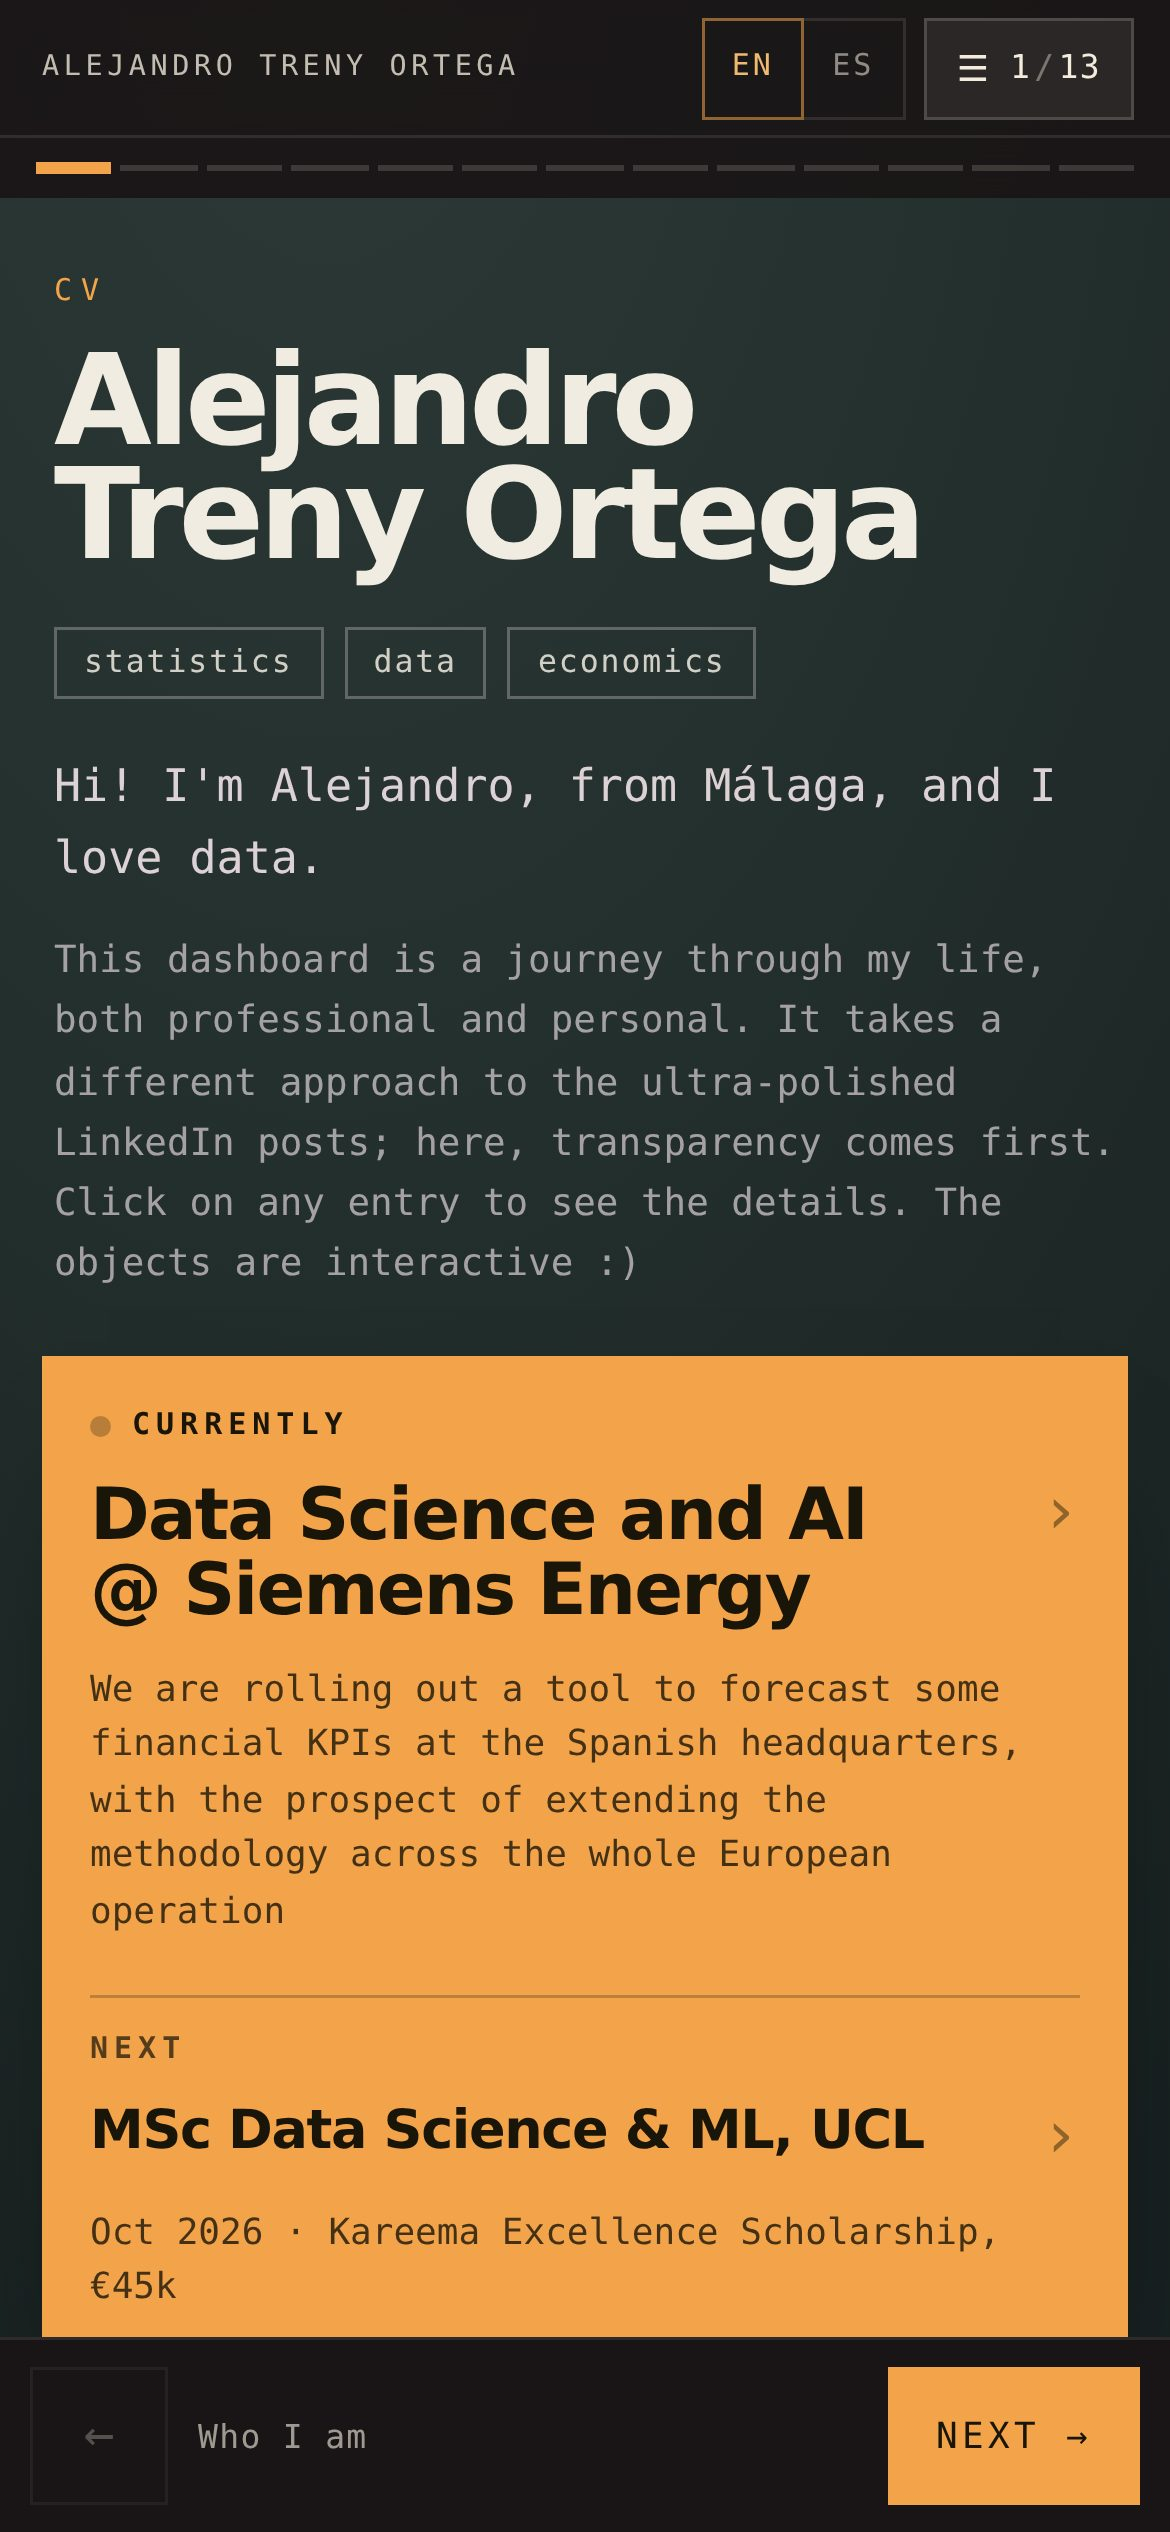
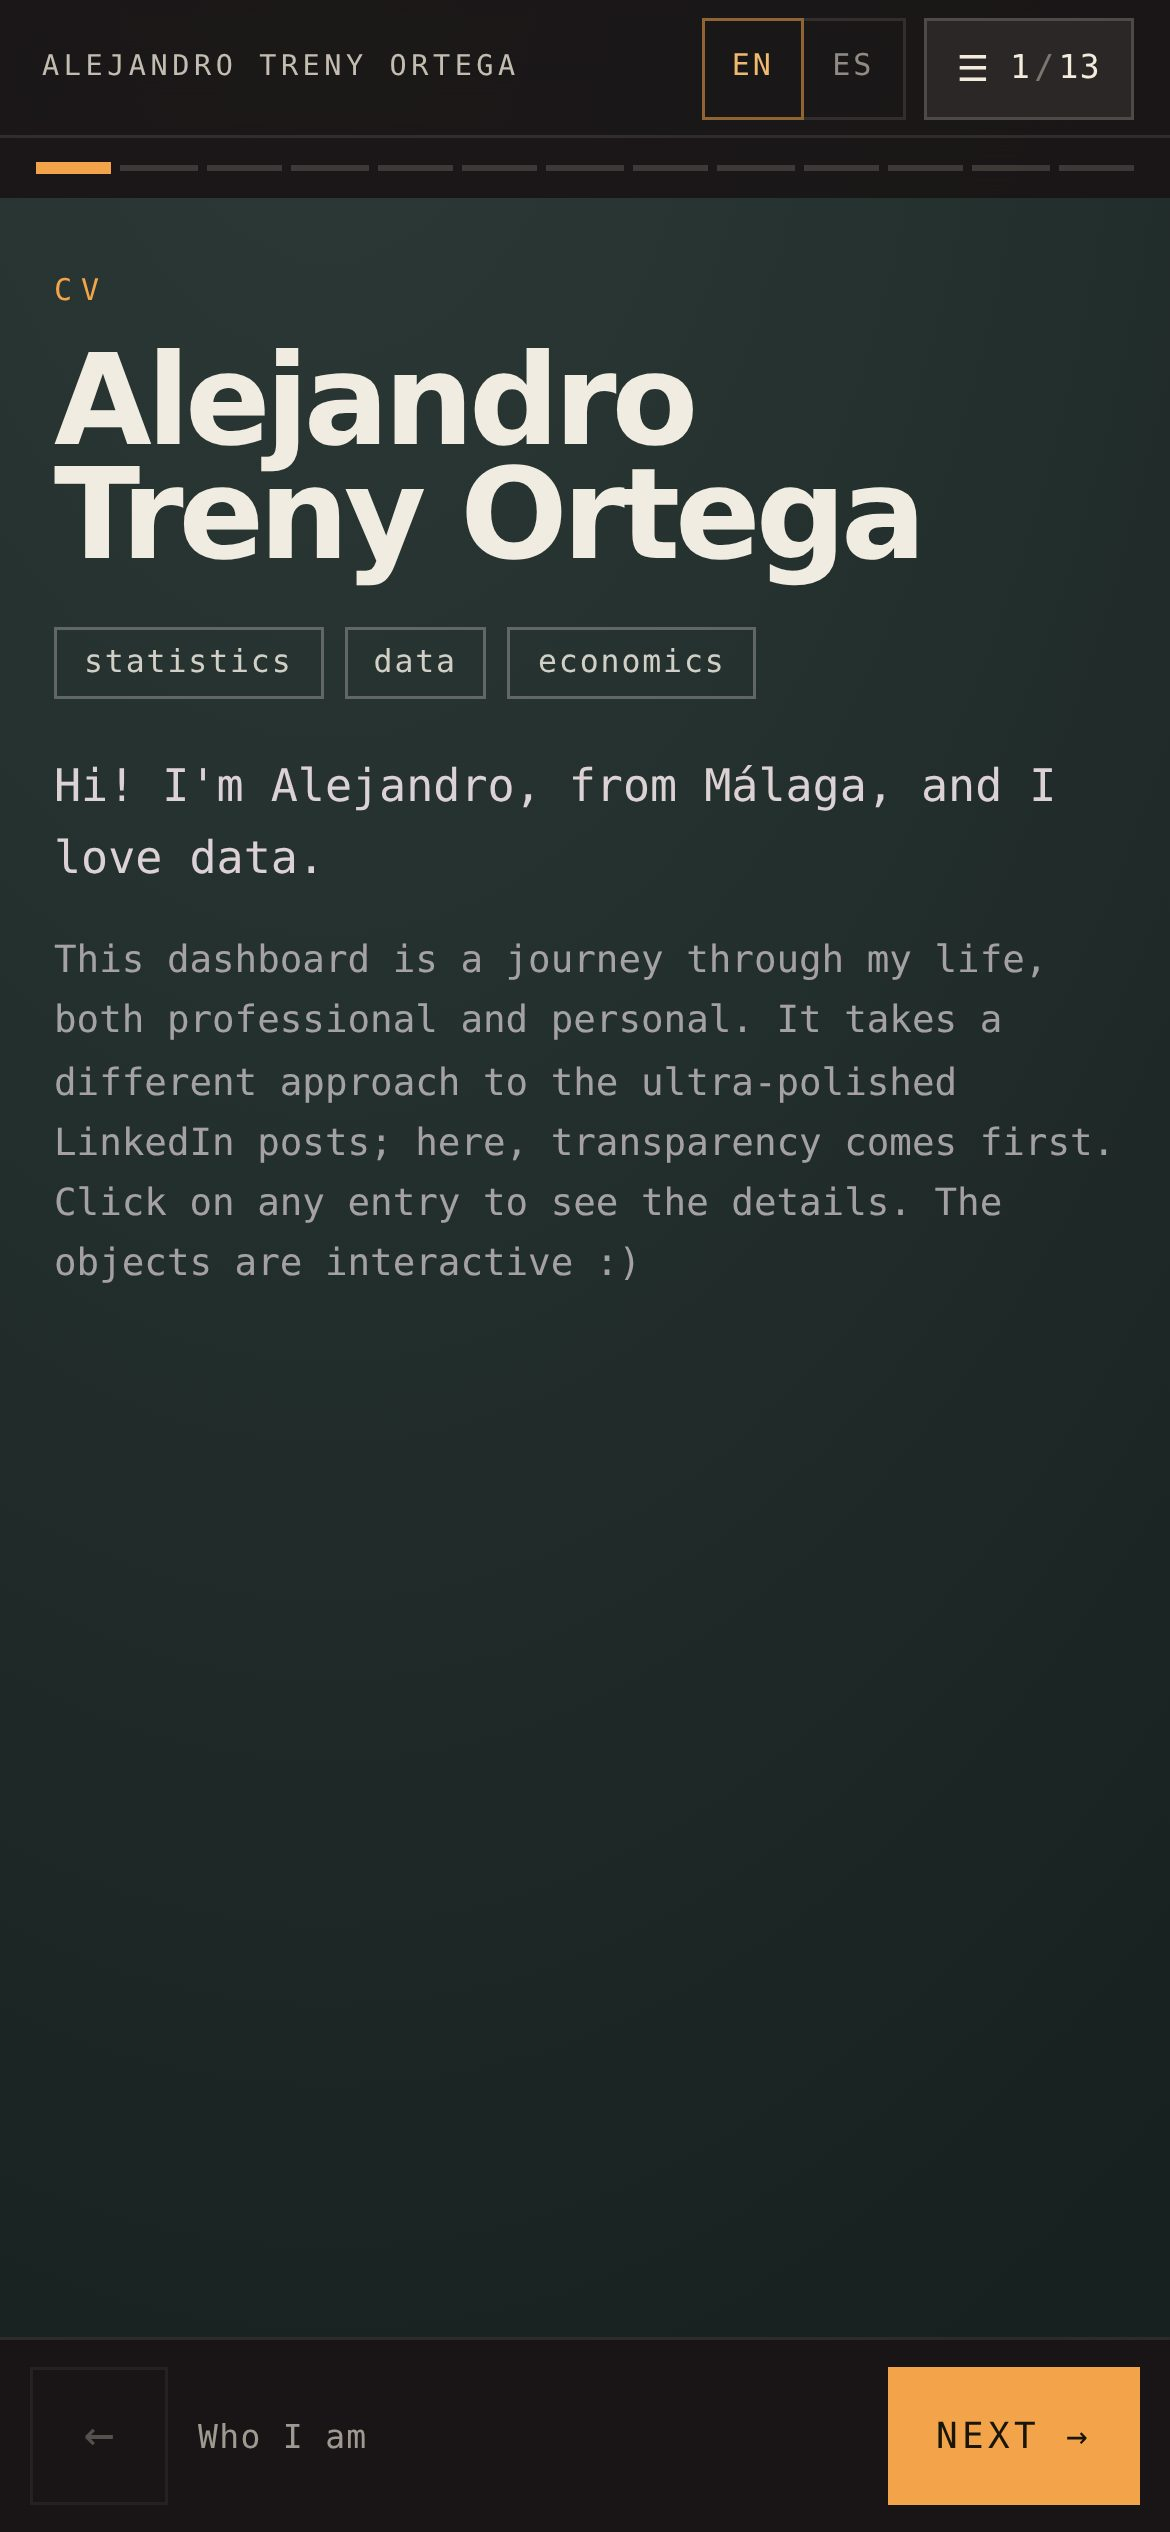
Leave the "currently" card off the walk too
It is real content, unlike the scraps and the stamps, but it says what the
first row of the work drawer says two screens later — and the cover reads
better as the name, the tags and the line under them, with nothing
following it down the screen.

So the now card joins the short list of types the walk does not draw. One
place decides it, which means it never becomes a screen of its own either,
and a route that framed nothing else would simply have no screen there.
The renderer and its styles go with it.

The card is untouched on the slate, where it has the room to be a card.

diff --git a/src/lib/mobile.test.ts b/src/lib/mobile.test.ts
@@ -56,11 +56,25 @@ describe('the walk a phone takes', () => {
 
   it('carries the stop’s other cards under the one it is about', () => {
     const chapters = buildChapters(
-      board({ cards: [card('hero', { type: 'hero' }), card('now', { type: 'now' })] }),
-      customTour([{ id: 'a', label: 'Who I am', items: ['hero'], extras: ['now'] }]),
+      board({ cards: [card('pod', { type: 'spotlight' }), card('track', { type: 'spotify' })] }),
+      customTour([{ id: 'a', label: 'On the air', items: ['pod'], extras: ['track'] }]),
     );
     expect(chapters).toHaveLength(1);
-    expect(chapters[0].extras.map((extra) => extra.id)).toEqual(['now']);
+    expect(chapters[0].extras.map((extra) => extra.id)).toEqual(['track']);
+  });
+
+  // The cover is the name and nothing else; "currently" repeats the top of the
+  // work drawer two screens later, and stays on the slate.
+  it('leaves the currently card on the slate', () => {
+    const chapters = buildChapters(
+      board({ cards: [card('hero', { type: 'hero' }), card('now', { type: 'now' })] }),
+      customTour([
+        { id: 'a', label: 'Who I am', items: ['hero'], extras: ['now'] },
+        { id: 'b', label: 'Now', items: ['now'] },
+      ]),
+    );
+    expect(chapters.map((chapter) => chapter.card.id)).toEqual(['hero']);
+    expect(chapters[0].extras).toEqual([]);
   });
 
   it('never repeats a card that two stops both name', () => {
@@ -138,8 +152,9 @@ describe('the walk a phone takes', () => {
     // Every readable card on the slate reaches a screen, and none twice.
     const seen = chapters.map((chapter) => chapter.card.id);
     expect(new Set(seen).size).toBe(seen.length);
-    // And nothing that is not a card reaches one.
-    expect(chapters.every((chapter) => chapter.card.type !== 'scrap')).toBe(true);
+    // And nothing the walk does not draw reaches one.
+    const drawn = chapters.flatMap((chapter) => [chapter.card, ...chapter.extras]);
+    expect(drawn.every((piece) => !['scrap', 'stamp', 'now'].includes(piece.type))).toBe(true);
   });
 });
 

diff --git a/src/styles/mobile.css b/src/styles/mobile.css
@@ -366,32 +366,6 @@
   white-space: pre-line;
 }
 
-/* ------------------------------------------------------------------ currently */
-.m-now__label { display: flex; align-items: center; gap: 7px; font-size: 10px; letter-spacing: .2em; text-transform: uppercase; font-weight: 600; }
-.m-now__dot { width: 7px; height: 7px; border-radius: 50%; background: currentColor; animation: blip 1.8s ease-in-out infinite; }
-.m-now__block {
-  display: grid;
-  grid-template-columns: 1fr auto;
-  align-items: start;
-  gap: 4px 10px;
-  width: 100%;
-  margin: 12px 0 0;
-  padding: 0;
-  text-align: left;
-  background: transparent;
-  border: none;
-  color: inherit;
-  font-family: var(--font-mono);
-  cursor: pointer;
-}
-.m-now__block:disabled { cursor: default; }
-.m-now__title { font-family: var(--font-display); font-weight: 700; font-size: 24px; line-height: 1.06; letter-spacing: -.025em; white-space: pre-line; }
-.m-now__title--small { font-size: 18px; }
-.m-now__sub { grid-column: 1 / -1; font-size: 12px; line-height: 1.55; opacity: .8; margin-top: 6px; white-space: pre-line; }
-.m-now__go { font-size: 22px; line-height: 1.1; opacity: .45; }
-.m-now__rule { height: 1px; background: color-mix(in oklch, currentColor 25%, transparent); margin: 18px 0 12px; }
-.m-now__next-label { font-size: 10px; letter-spacing: .2em; text-transform: uppercase; font-weight: 600; opacity: .72; }
-
 /* ------------------------------------------------------------------ languages */
 .m-levels { list-style: none; margin: 16px 0 0; padding: 0; display: flex; flex-direction: column; gap: 10px; }
 .m-levels li { display: grid; grid-template-columns: 34px 1fr auto; align-items: center; gap: 10px; }
@@ -686,5 +660,4 @@
   .m-track { transition: none; }
   .m-article,
   .m-index { animation: none; }
-  .m-now__dot { animation: none; }
 }

diff --git a/src/components/mobile/MobileChapterView.tsx b/src/components/mobile/MobileChapterView.tsx
@@ -153,32 +153,6 @@ function CardBody({ card, entries, groupLabel, active, numbered, onOpen }: {
     );
   }
 
-  if (card.type === 'now') {
-    return (
-      <div className={`m-sheet card__surface card__surface--${tone(card)}`}>
-        <div className="m-now__label"><span className="m-now__dot" />{card.label ?? t('card.currently')}</div>
-        <button className="m-now__block" type="button" disabled={!card.current} onClick={() => card.current && onOpen(card.current)}>
-          {/* The chevron is placed by the grid's own flow, so it has to come
-              before the line that spans both columns. */}
-          <span className="m-now__title">{card.currentTitle}</span>
-          {card.current ? <span className="m-now__go" aria-hidden="true">›</span> : null}
-          {card.currentSub ? <span className="m-now__sub">{card.currentSub}</span> : null}
-        </button>
-        {card.nextTitle ? (
-          <>
-            <div className="m-now__rule" />
-            <div className="m-now__next-label">{card.nextLabel ?? t('card.next')}</div>
-            <button className="m-now__block" type="button" disabled={!card.next} onClick={() => card.next && onOpen(card.next)}>
-              <span className="m-now__title m-now__title--small">{card.nextTitle}</span>
-              {card.next ? <span className="m-now__go" aria-hidden="true">›</span> : null}
-              {card.nextSub ? <span className="m-now__sub">{card.nextSub}</span> : null}
-            </button>
-          </>
-        ) : null}
-      </div>
-    );
-  }
-
   if (card.type === 'spotify') {
     const embed = spotifyTrackEmbedUrl(card.spotifyUrl);
     if (!embed || !active) return null;

diff --git a/src/lib/mobile.ts b/src/lib/mobile.ts
@@ -24,10 +24,13 @@
 import { buildStops, type TourConfig, type TourItem, type TourStop } from './tour';
 import type { BoardCard, BoardConfig, LayoutMap } from './board';
 
-/** Card types that carry nothing a reader could use on a phone: a scrap is a
- *  drawn mark and a stamp is a decoration on the passport. They stay on the
- *  desktop slate, where they are furniture rather than content. */
-const SILENT_CARDS = new Set<BoardCard['type']>(['scrap', 'stamp']);
+/** Card types the walk does not draw.
+ *
+ *  A scrap is a drawn mark and a stamp is a decoration on the passport —
+ *  furniture rather than content. The `now` card is content, but it repeats
+ *  the top of the work drawer two screens later, and the cover reads better
+ *  as the name and nothing else. All three stay on the desktop slate. */
+const SILENT_CARDS = new Set<BoardCard['type']>(['scrap', 'stamp', 'now']);
 
 /** One screen of the mobile app. */
 export type MobileChapter = {
@@ -37,8 +40,8 @@ export type MobileChapter = {
   label: string;
   /** The card the screen is built around. */
   card: BoardCard;
-  /** Other cards the stop carries, rendered under the one it is about: the
-   *  `now` card under the cover, the music player under the podcast. */
+  /** Other cards the stop carries, rendered under the one it is about — the
+   *  music player under the podcast. */
   extras: BoardCard[];
 };
 

diff --git a/docs/handbook.md b/docs/handbook.md
@@ -260,16 +260,20 @@ narrow switches over too, and back again.
 
 **One card per screen, and nothing else.** Every stop in `board.tour` becomes a
 screen: the stop's heading, the card it frames, and underneath it any other
-*card* that stop carries — the `now` card under the cover, the music player
-under the podcast. A stop that frames two cards becomes two screens under one
-heading. A stop that frames nothing a reader can read — a drawn mark, a
-photograph — does not become a screen at all.
+*card* that stop carries — the music player under the podcast. A stop that
+frames two cards becomes two screens under one heading. A stop that frames
+nothing the walk draws does not become a screen at all.
 
-The board's furniture stays on the board. The instant photographs and the
-pinned notes are what the eye rests on *between* one drawer and the next on a
-slate; stacked in a single column they are only something to scroll past on the
-way to the work, so the walk does not draw them. They are still there on the
-full slate, one tap away from the last screen.
+Three kinds of card the walk never draws: a **scrap**, which is a drawn mark; a
+**stamp**, which is a decoration on the passport; and the **`now` card**, which
+is real content but repeats the top of the work drawer two screens later, and
+which the cover reads better without.
+
+The board's furniture stays on the board for the same reason. The instant
+photographs and the pinned notes are what the eye rests on *between* one drawer
+and the next on a slate; stacked in a single column they are only something to
+scroll past on the way to the work. They are all still there on the full slate,
+one tap away from the last screen.
 
 **Nothing to keep in sync.** The route is read through the same `buildStops` the
 desktop camera uses, so renaming a stop, reordering the walk or adding a card

diff --git a/PROJECT_STATUS.md b/PROJECT_STATUS.md
@@ -193,13 +193,14 @@ different program: the same board, walked.
 
 - **The route is the tour.** `src/lib/mobile.ts` reads `board.tour` through the
   same `buildStops` the desktop camera uses and turns each stop into one screen:
-  its heading, the card it frames, and any other card it carries — the `now`
-  card under the cover, the player under the podcast. Pure, and covered by
-  `src/lib/mobile.test.ts`.
-- **A screen is a card.** The instant photographs and the pinned notes are what
-  the eye rests on between one drawer and the next on a slate; in a single
-  column they are only something to scroll past on the way to the work. The
-  walk does not draw them, and a generated route never stops on one. They stay
+  its heading, the card it frames, and any other card it carries — the player
+  under the podcast. Pure, and covered by `src/lib/mobile.test.ts`.
+- **A screen is a card, and one short list says which cards.** Scraps and
+  stamps are drawn marks; the `now` card repeats the top of the work drawer two
+  screens later and the cover reads better as the name alone. The instant
+  photographs and the pinned notes are what the eye rests on between one drawer
+  and the next on a slate, not something to scroll past in a column. None of it
+  is drawn, a generated route never stops on any of it, and all of it is still
   on the full slate, one tap from the last screen.
 - **Nothing to maintain twice.** Rename a stop, reorder the walk or add a card
   from the tour panel and the phone follows, in both languages. The sheets are

diff --git a/README.md b/README.md
@@ -121,10 +121,10 @@ The route is not a second thing to maintain: it is `board.tour`, read through
 the same `buildStops` the desktop camera uses. Rename a stop, reorder the walk
 or add a card from the tour panel and the phone follows, in both languages.
 
-A screen is a card, and nothing else. The instant photographs and the pinned
-notes are what the eye rests on *between* two drawers on a slate; stacked in a
-single column they are only something to scroll past on the way to the work, so
-they stay on the desk.
+A screen is a card, and nothing else. The instant photographs, the pinned notes
+and the "currently" card stay on the desk: the first two are what the eye rests
+on *between* two drawers on a slate rather than something to scroll past, and
+the third repeats the top of the work drawer two screens later.
 
 What a phone cannot use stays on the desk: the pan-and-zoom canvas, the
 thirty-three interactive objects, the drag, and the editor. The last screen and

diff --git a/CHANGELOG.md b/CHANGELOG.md
@@ -13,9 +13,8 @@
 - The route is not new content: `src/lib/mobile.ts` reads `board.tour` through
   the same `buildStops` the desktop camera uses, so renaming a stop, reordering
   the walk or adding a card from the tour panel moves the phone with it, in both
-  languages. A screen is a card and nothing else — the instant photographs and
-  the pinned notes stay on the slate, where they are something to rest on rather
-  than something to scroll past.
+  languages. A screen is a card and nothing else — the instant photographs, the
+  pinned notes and the "currently" card stay on the slate.
 - A door to the full slate from the last screen and from the index sheet, at
   `?board=1`, with a return chip and a working back gesture. It arrives without
   replaying the tour the visitor has just walked by hand.
